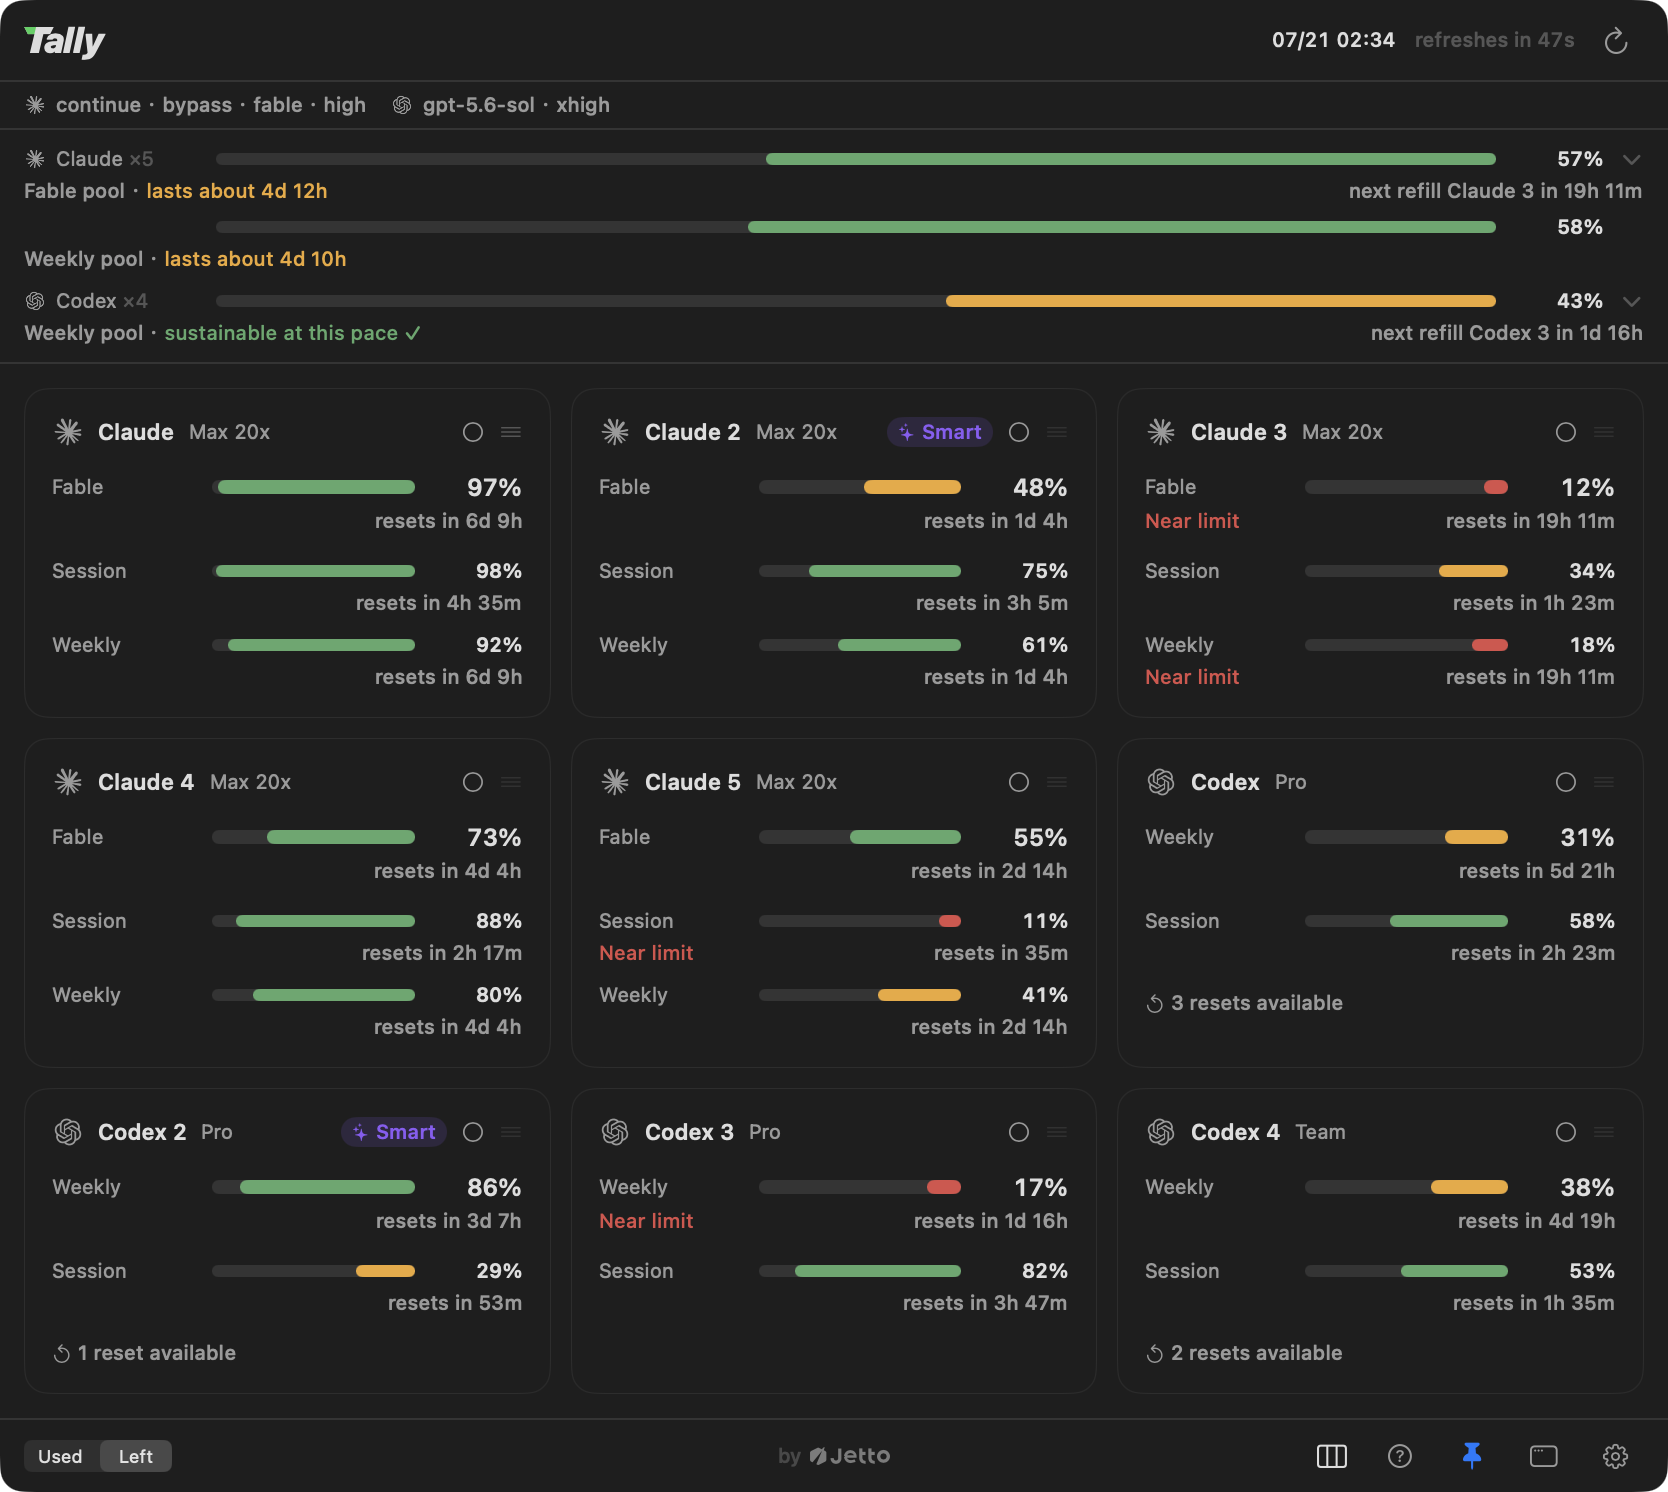
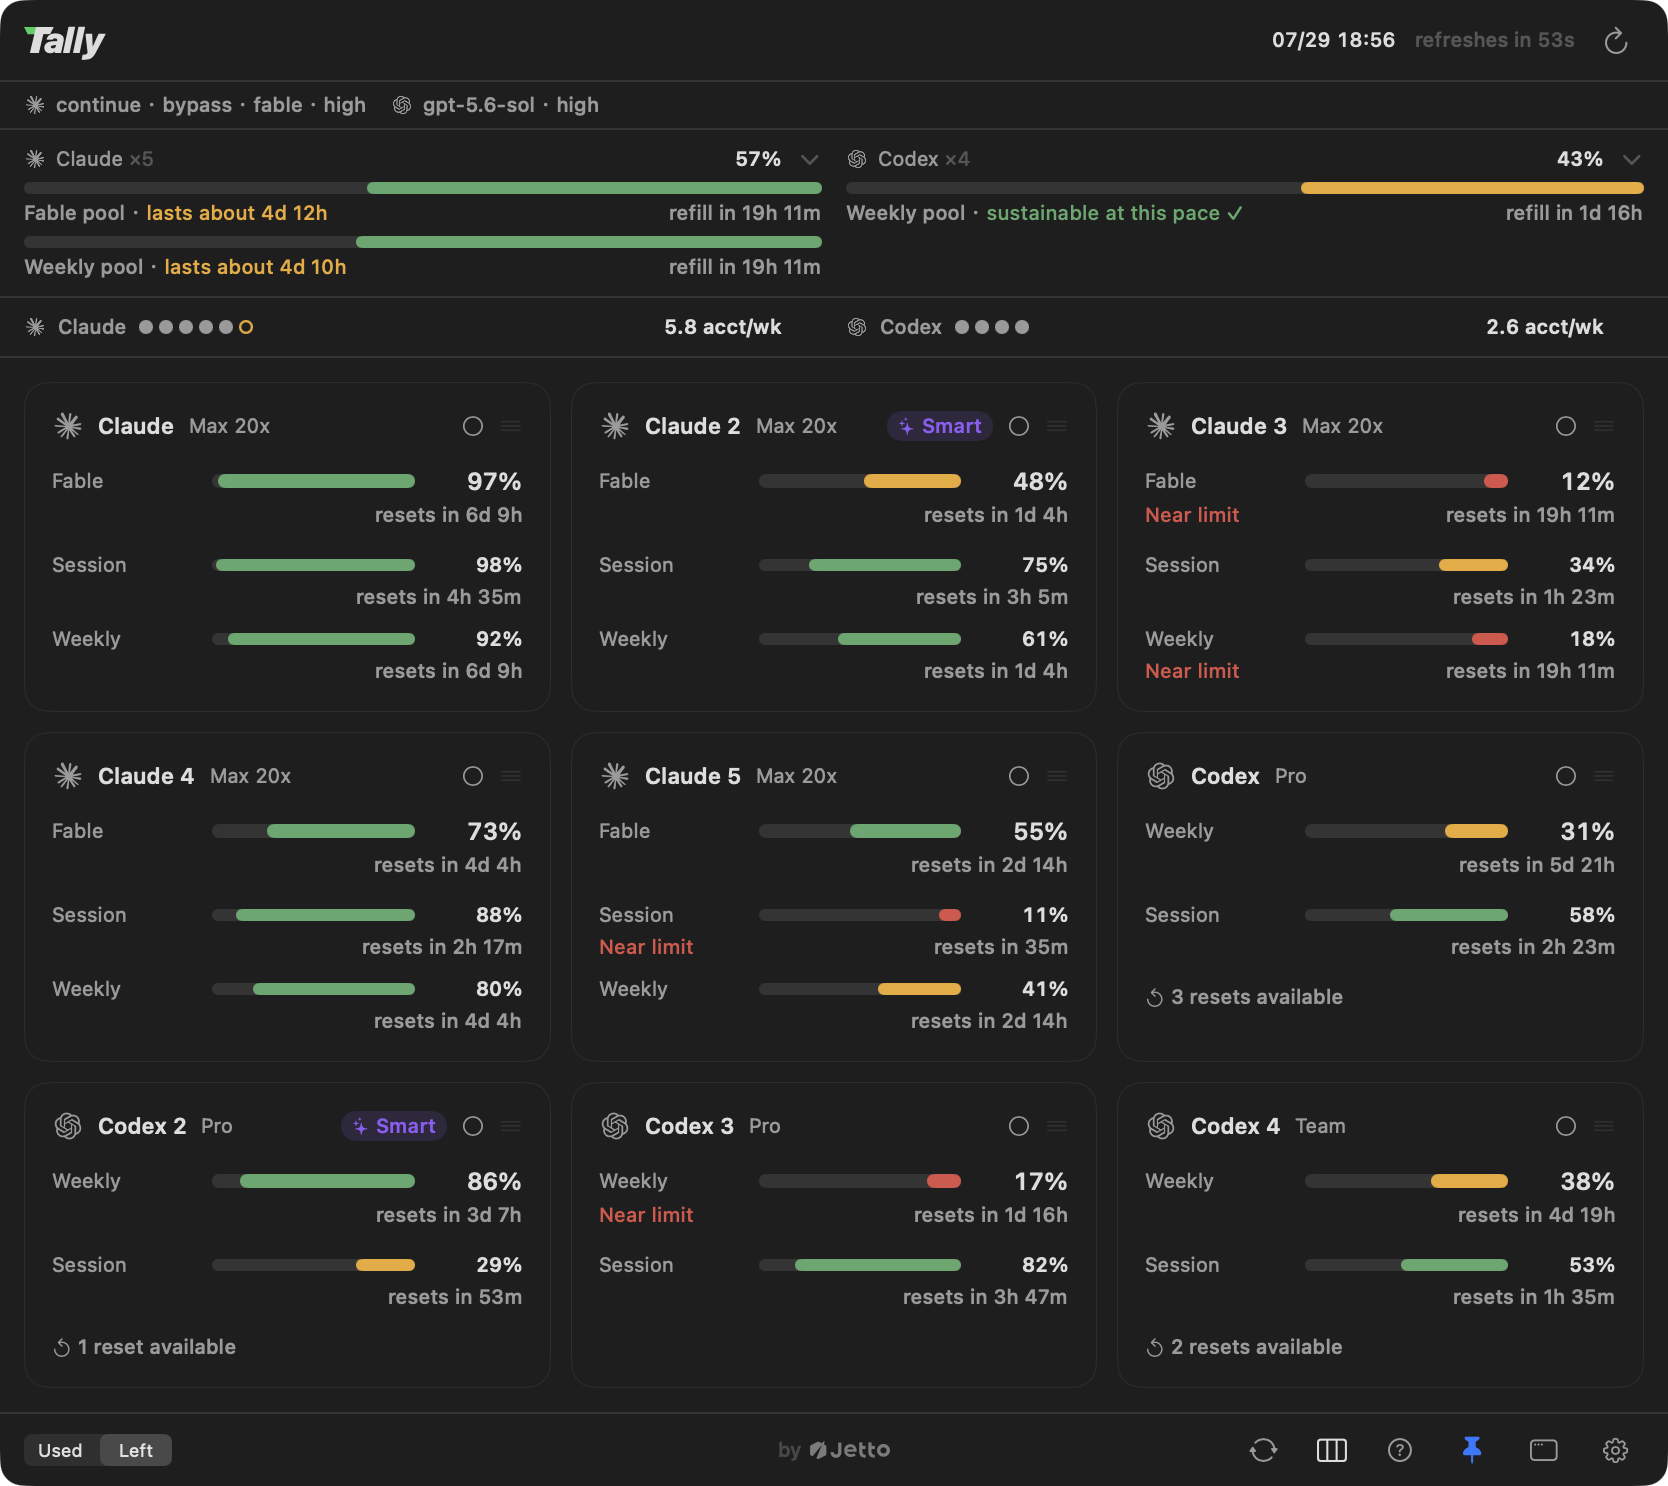
docs(readme): refresh panel screenshot with the advisor row, demo mode feeds advisor fixtures

diff --git a/Tally/Stores/UsageStore.swift b/Tally/Stores/UsageStore.swift
@@ -32,8 +32,8 @@ final class UsageStore {
 
     /// The usage advisor's per-provider "do I need another account?" verdict, recomputed from the
     /// 28-day burn history after each refresh - what the advisor strip renders. Empty until the
-    /// first history read completes, and stays empty in demo mode (its refresh returns before this
-    /// read is ever reached).
+    /// first history read completes; demo mode fills it from fixtures instead, since a demo launch
+    /// has no history to read.
     private(set) var advisorReadings: [UsageAdvisor.Reading] = []
 
     private let providers = ProviderCatalog.all
@@ -172,6 +172,7 @@ final class UsageStore {
         if DemoUsage.isActive {
             accounts = DemoUsage.accounts()
             fleetRates = DemoUsage.fleetRates
+            advisorReadings = DemoUsage.advisorReadings
             lastRefreshedAt = Date()
             lastSuccessfulRefreshAt = lastRefreshedAt
             onChange?()
@@ -258,7 +259,9 @@ final class UsageStore {
         }
         // The advisor needs a wider window than the pace forecast (weekly demand needs weeks, not
         // hours), so it reads the history separately. Same off-main queue, mapped into the pure
-        // advisor's own sample type.
+        // advisor's own sample type. Demo mode never reaches this read (its refresh returned
+        // above); the guard below keeps the fixture readings the only ones a demo panel can show
+        // even if that early return ever moves.
         UsageHistory.shared.samples(
             since: now.addingTimeInterval(-UsageAdvisor.lookbackDays * 86_400)) { samples in
             let advisorSamples = samples.map {
@@ -267,7 +270,10 @@ final class UsageStore {
                                     resetAt: $0.resetAt)
             }
             let readings = UsageAdvisor.readings(samples: advisorSamples, now: now)
-            Task { @MainActor in UsageStore.shared.advisorReadings = readings }
+            Task { @MainActor in
+                guard !DemoUsage.isActive else { return }
+                UsageStore.shared.advisorReadings = readings
+            }
         }
         // Any failed account → probe again soon (backoff) instead of waiting the full interval.
         scheduleRetryIfNeeded(anyFailure: results.contains { $0.error != nil })

diff --git a/Tally/Core/DemoUsage.swift b/Tally/Core/DemoUsage.swift
@@ -47,6 +47,24 @@ enum DemoUsage {
          "codex|weeklyAll": FleetRate(perHour: 1.4, sampledHours: 72)]
     }
 
+    /// Fabricated advisor readings so the advisor strip renders in screenshots too. Real instances
+    /// derive these from ~/.tally/history.jsonl, which a demo launch never has, so without fixtures
+    /// the strip is simply absent from the shot. The numbers continue the story the gauges above
+    /// already tell: the five Claude accounts spend more per week than they refill (pace asks for a
+    /// sixth, one hollow pip), while the four Codex accounts stay inside their budget.
+    static var advisorReadings: [UsageAdvisor.Reading] {
+        // 5.8 account-weeks over 5 accounts puts the pool past the 0.9 trigger on its own, and the
+        // starved hours cross their 2h/wk trigger too, so both paths to "add an account" agree.
+        // The active burn is the same working week seen from each provider: ~580 percent-points a
+        // week at 11%/h and ~260 at 5%/h are both about 53 hours of hands-on time.
+        [UsageAdvisor.Reading(provider: "claude", verdict: .addAccount, demandPerWeek: 5.8,
+                              activeBurnPerHour: 11, starvedHoursPerWeek: 3.4,
+                              daysOfData: 14, accountCount: 5),
+         UsageAdvisor.Reading(provider: "codex", verdict: .sufficient, demandPerWeek: 2.6,
+                              activeBurnPerHour: 5, starvedHoursPerWeek: 0,
+                              daysOfData: 14, accountCount: 4)]
+    }
+
     /// A Claude account shaped exactly like ClaudeUsageCLI's mapping: a model-scoped weekly window
     /// (the headline), the 5h session, and the all-model weekly. A nil session reset mirrors the
     /// untouched-account case ("5h starts on first use").

diff --git a/README.ko.md b/README.ko.md
@@ -31,7 +31,7 @@ Tally는 **Claude와 Codex의 AI 사용량(사용 한도)을 모니터링하는 
 </p>
 
 <p align="center">
-  <img src="assets/screenshot-panel.png" alt="Tally 고정 패널: 프로바이더별 플릿 게이지가 아홉 개의 계정(Claude Max 다섯, Codex 넷)을 모아, Claude는 두 개의 잔량(Fable 풀과 주간 풀 막대, 각각 페이스 예측 '약 4d 12h 사용 가능'과 다음 시차 충전 포함), Codex는 주간 풀 하나(이 속도면 지속 가능)를 보여 줍니다. 그 아래에는 각 계정 고유의 카드가 5시간 세션, 주간, 최상위 모델 창을 리셋 시각, 한도 임박 경고, 그리고 런처가 현재 선택한 계정을 나타내는 보라색 스마트 선택 배지와 함께 보여 줍니다" width="834">
+  <img src="assets/screenshot-panel.png" alt="Tally 고정 패널: 프로바이더별 플릿 게이지가 아홉 개의 계정(Claude Max 다섯, Codex 넷)을 모아, Claude는 두 개의 잔량(Fable 풀과 주간 풀 막대, 각각 페이스 예측 '약 4d 12h 사용 가능'과 다음 시차 충전 포함), Codex는 주간 풀 하나(이 속도면 지속 가능)를 보여 줍니다. 어드바이저 행은 계정 점으로 프로바이더별 주간 실수요(5.8 acct/wk)를 표시하고, 페이스가 초과되면 계정 추가가 필요함을 알려 줍니다. 그 아래에는 각 계정 고유의 카드가 5시간 세션, 주간, 최상위 모델 창을 리셋 시각, 한도 임박 경고, 그리고 런처가 현재 선택한 계정을 나타내는 보라색 스마트 선택 배지와 함께 보여 줍니다" width="834">
 </p>
 
 ## 왜 Tally인가

diff --git a/README.md b/README.md
@@ -31,7 +31,7 @@ which account is burning.
 </p>
 
 <p align="center">
-  <img src="assets/screenshot-panel.png" alt="Tally's pinned panel: per-provider fleet gauges pool nine accounts (five Claude Max, four Codex), Claude showing both its runways at once, a Fable pool bar and a weekly pool bar, each with a pace forecast (lasts about 4d 12h) and the next staggered refill, Codex a weekly pool that is sustainable at this pace; below, every account's own card shows its 5-hour session, weekly, and top-model windows with reset times, near-limit warnings, and purple Smart badges on the launcher's current picks" width="834">
+  <img src="assets/screenshot-panel.png" alt="Tally's pinned panel: per-provider fleet gauges pool nine accounts (five Claude Max, four Codex), Claude showing both its runways at once, a Fable pool bar and a weekly pool bar, each with a pace forecast (lasts about 4d 12h) and the next staggered refill, Codex a weekly pool that is sustainable at this pace; an advisor row of account pips shows each provider's running weekly demand (5.8 acct/wk) and marks when the pace calls for one more account; below, every account's own card shows its 5-hour session, weekly, and top-model windows with reset times, near-limit warnings, and purple Smart badges on the launcher's current picks" width="834">
 </p>
 
 ## Why Tally
